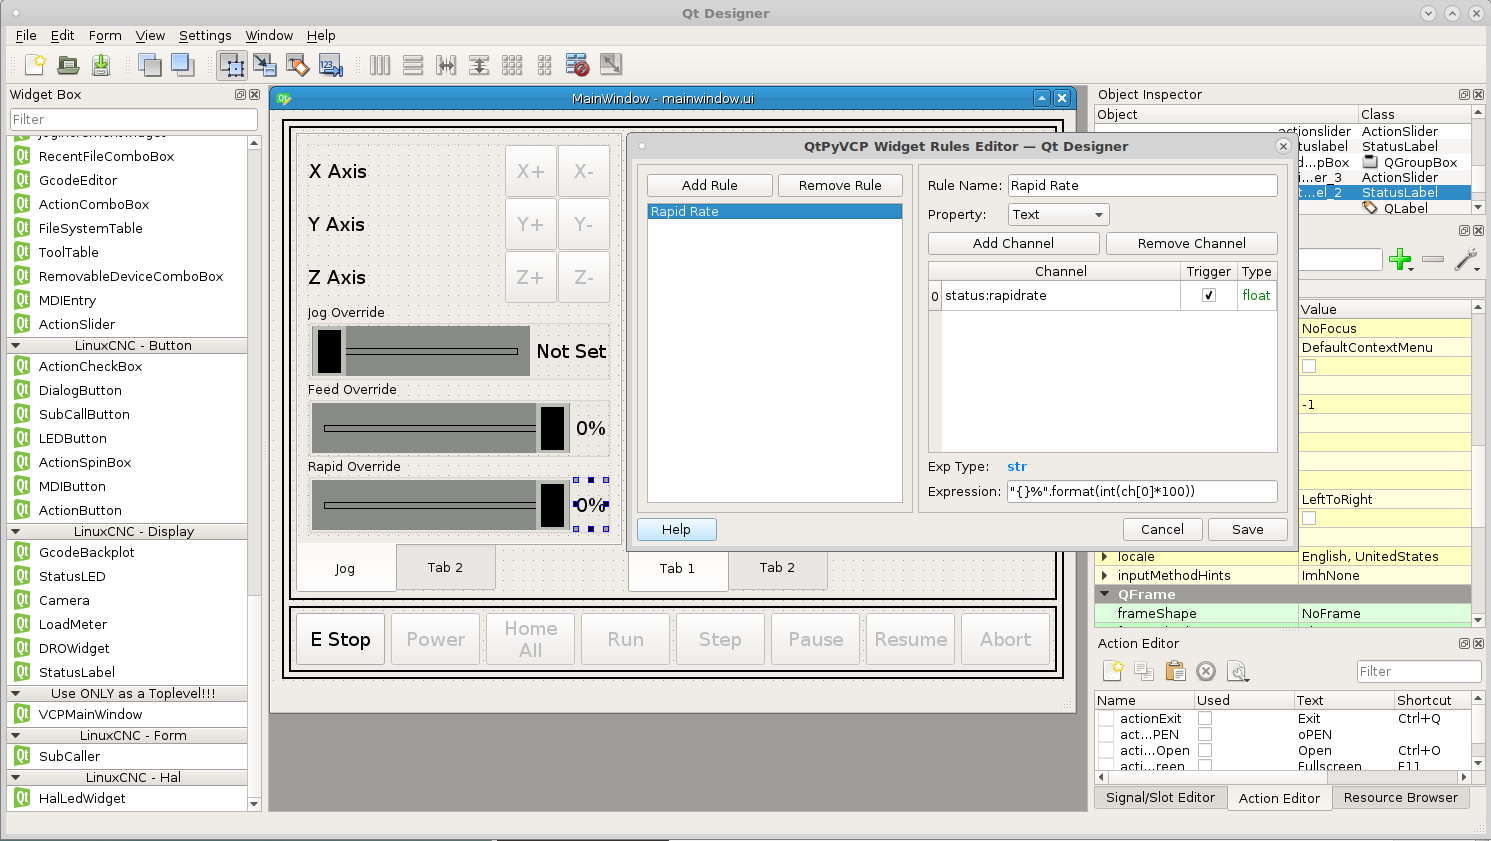
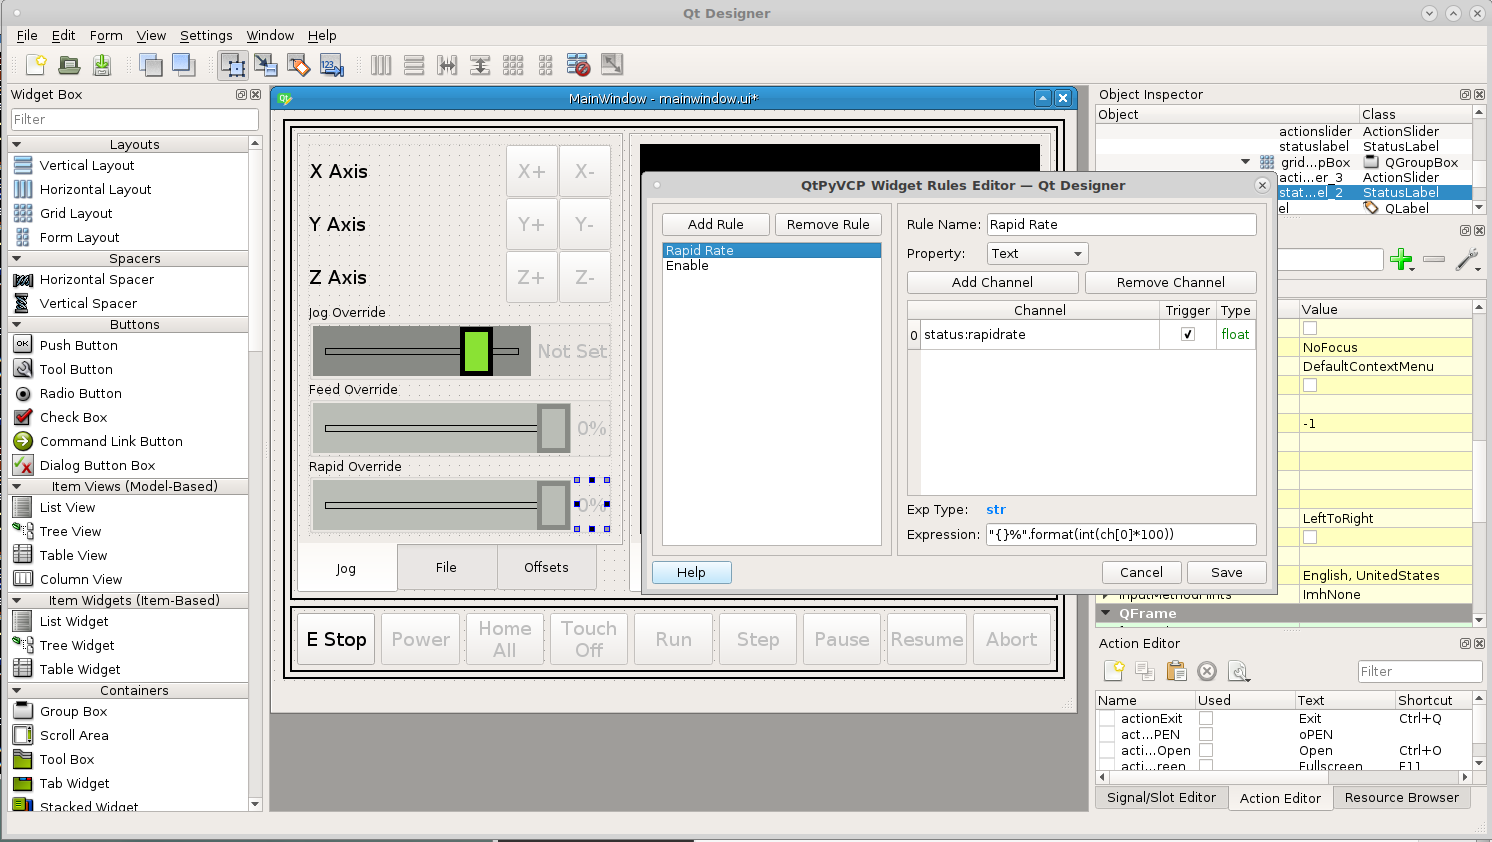
DOC: add more content to tutorial

Changed region(s): [[0.0, 0.0309, 1.0, 1.0], [0.9873, 0.2164, 1.0, 0.2473], [0.4628, 0.0, 0.4936, 0.0309]]

diff --git a/docs/source/tutorials/basic_vcp_04.rst b/docs/source/tutorials/basic_vcp_04.rst
@@ -64,9 +64,10 @@ Drag a `GcodeBackplot` into the right frame so you can see it move when you jog.
 Drag a grid layout below the jog buttons in the tab. Drag the edge until it
 fills the tab left to right and morph it into a `QGroupBox` and set the title to
 `Jog Override`. Now we need to make a jog speed slider, drag an `ActionSlider`
-into the group box and put ``machine.jog.set-linear-speed`` in the actionName and change
-orientation to horizontal. Now add the following to the grid stylesheet
-because we want all the ActionSliders in this grid to have the same style.
+into the group box and put ``machine.jog.set-linear-speed`` in the actionName
+and change orientation to horizontal and set the value at 80. Now add the
+following to the grid stylesheet because we want all the ActionSliders in this
+grid to have the same style.
 ::
 
     ActionSlider {
@@ -80,12 +81,25 @@ because we want all the ActionSliders in this grid to have the same style.
         margin: 0 12px;
     }
     ActionSlider::handle:horizontal {
-        background: rgb(0,0,0);
-        border: 5px solid rgb(186, 189, 182);
+        background: rgb(138, 226, 52);
+        border: 5px solid rgb(0,0,0);
         width: 23px;
         height: 100px;
-        margin: -24px -12px;
+        margin: -22px -12px;
     }
+    ActionSlider:disabled {
+        background-color: rgb(186, 189, 182);
+    }
+    ActionSlider::groove:horizontal:disabled {
+        border: 1px solid rgb(0,0,0);
+    }
+    ActionSlider::handle:horizontal:disabled {
+        background: rgb(186, 189, 182);
+        border: 5px solid rgb(136, 138, 133);
+    }
+
+The first three handle the size, border and enabled colors and the last three
+handle the disabled colors.
 
 We can also add a vertical spacer above the jog buttons to keep everything from
 expanding.
@@ -95,6 +109,9 @@ expanding.
    :scale: 40 %
 
 Now we can see the slider in action.
+
+.. Note::
+    At this time the jog slider is not complete so it does not go disabled.
 
 .. image:: images/vcp1-run-07.png
    :align: center
@@ -129,7 +146,7 @@ Now when we run the VCP we can see the percent of overrides change.
    :scale: 60 %
 
 Add another rule to each status label enable with the channel ``status:enabled``
-and the expression is ``ch[0]``. This gives us a clue that the slider is
+and the expression is ``ch[0]``. This gives us another clue that the slider is
 disabled until the power is on.
 
 .. image:: images/vcp1-designer-18.png

diff --git a/docs/source/tutorials/basic_vcp_05.rst b/docs/source/tutorials/basic_vcp_05.rst
@@ -1,0 +1,63 @@
+===================
+DRO and File Dialog
+===================
+
+Add a `DROWidget` between the jog buttons and the axis labels and set the axis
+and the reference_type to `Relative` for each one.
+
+.. image:: images/vcp1-designer-19.png
+   :align: center
+   :scale: 40 %
+
+Now when we run the VCP we can see the DRO's change when we jog an axis.
+
+.. image:: images/vcp1-run-10.png
+   :align: center
+   :scale: 60 %
+
+In the second left tab widget do the same as before add a grid layout, right
+click in the tab and select layout as a grid, right click the grid and morph
+into qframe. in the frame stylesheet add the following::
+
+    .DialogButton {
+        min-height: 50px;
+        min-width: 50px;
+        font: 14pt "DejaVu Sans";
+    }
+
+Now add a `GcodeEditor` and a `DialogButton` and set the dialog button
+`dialog_name` to ``open_file``. Remember to select the tabs you want to show
+when the VCP is started then save the VCP.
+
+.. image:: images/vcp1-designer-20.png
+   :align: center
+   :scale: 40 %
+
+Now when you run the VCP you can with a small object open a file.
+
+.. image:: images/vcp1-run-11.png
+   :align: center
+   :scale: 60 %
+
+Now add a `DialogButton` between the home button and the run button and set the
+text to ``Touch\nOff`` and the `DialogName` to ``set_work_offsets``. In the
+stylesheet for the buttons frame add the following::
+
+    .DialogButton {
+        min-height: 50px;
+        min-width: 50px;
+        font: 14pt "DejaVu Sans";
+    }
+
+.. image:: images/vcp1-designer-21.png
+   :align: center
+   :scale: 40 %
+
+Add a rule to the dialog button enable with the channel ``status:enabled``
+and the expression is ``ch[0]``. This will disable the touch off button until
+power is applied.
+
+.. image:: images/vcp1-designer-22.png
+   :align: center
+   :scale: 40 %
+

diff --git a/docs/source/tutorials/basic_vcp.rst b/docs/source/tutorials/basic_vcp.rst
@@ -13,3 +13,5 @@ This will cover the steps to build a basic VCP.
    basic_vcp_02
    basic_vcp_03
    basic_vcp_04
+   basic_vcp_05
+   basic_vcp_06

diff --git a/docs/source/tutorials/basic_vcp_06.rst b/docs/source/tutorials/basic_vcp_06.rst
@@ -1,0 +1,3 @@
+==============
+Status Display
+==============
